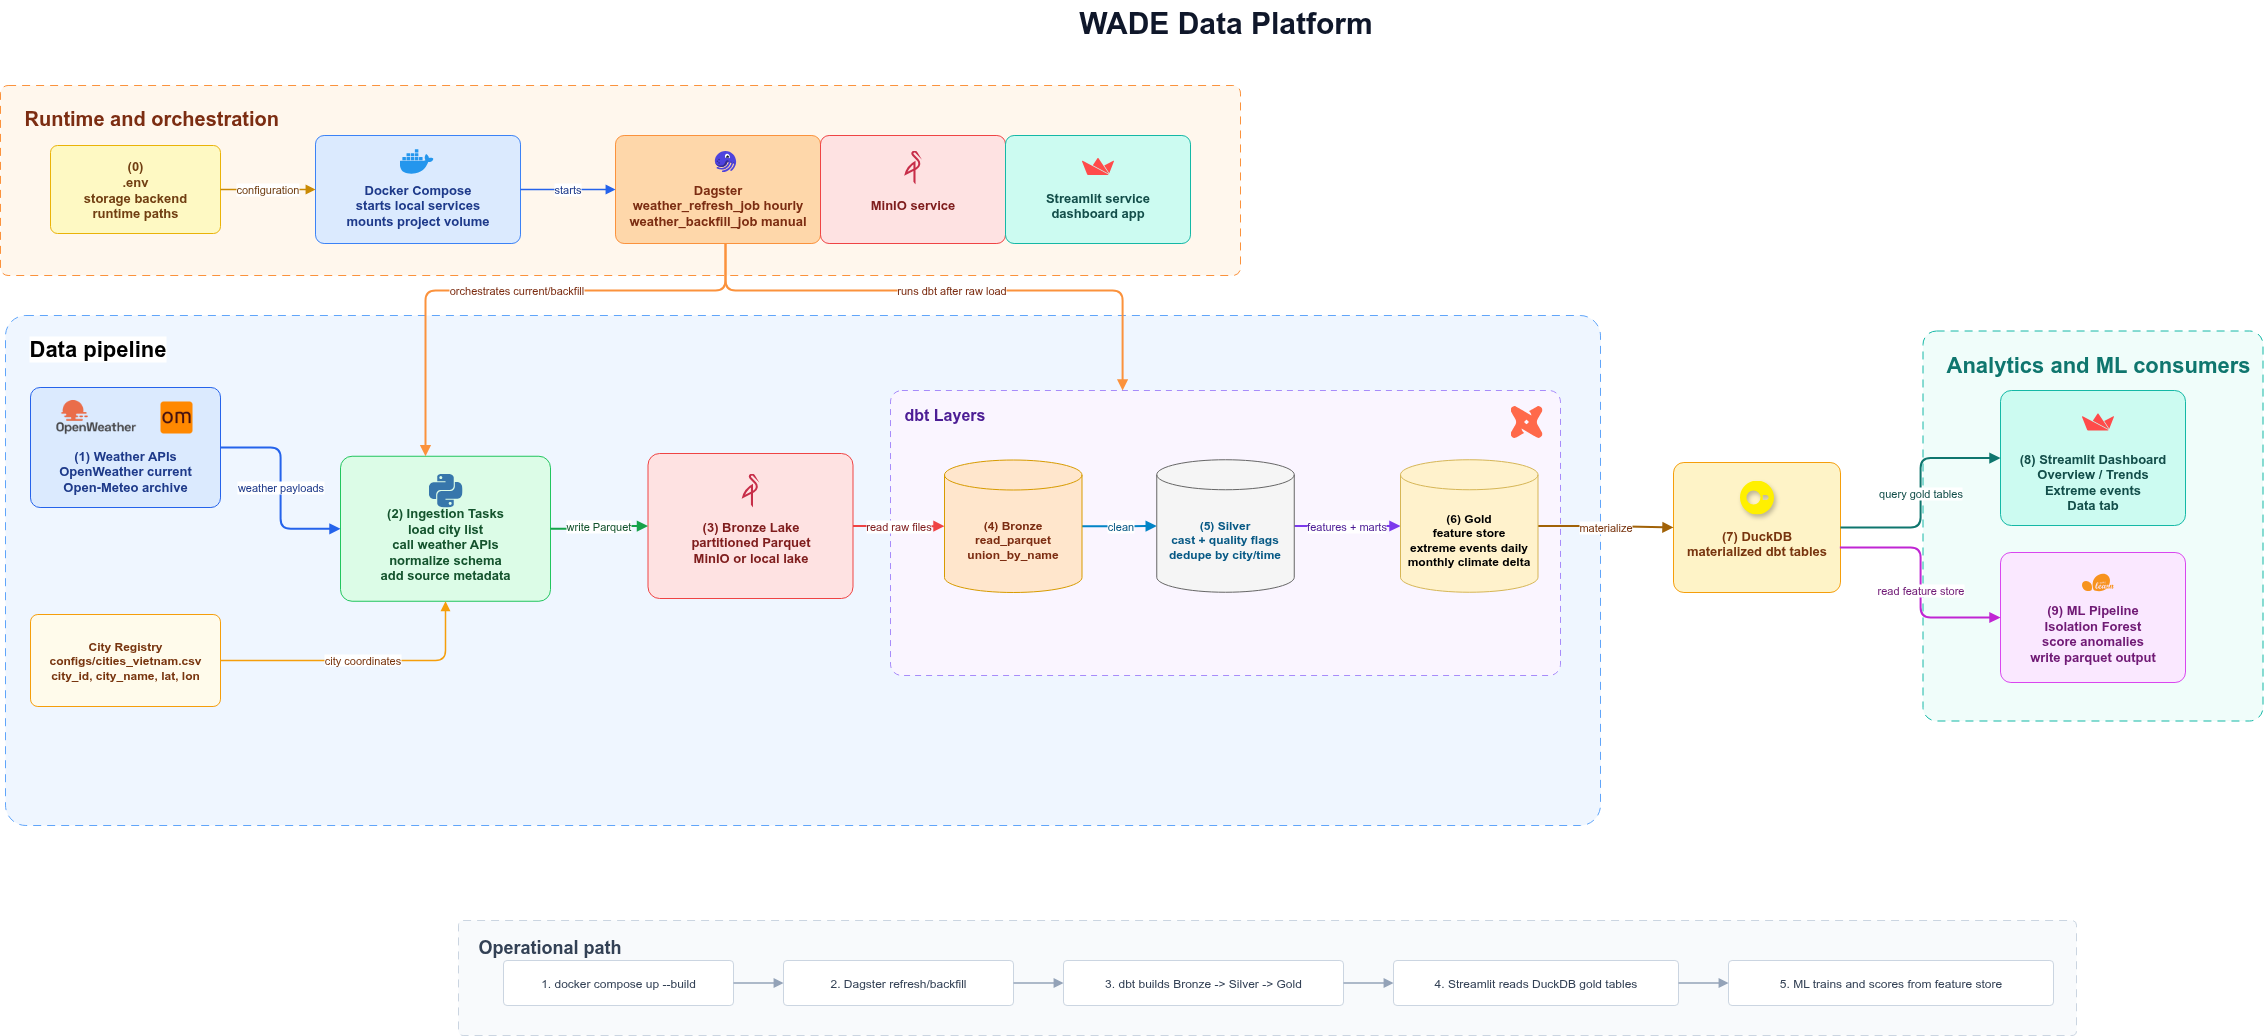
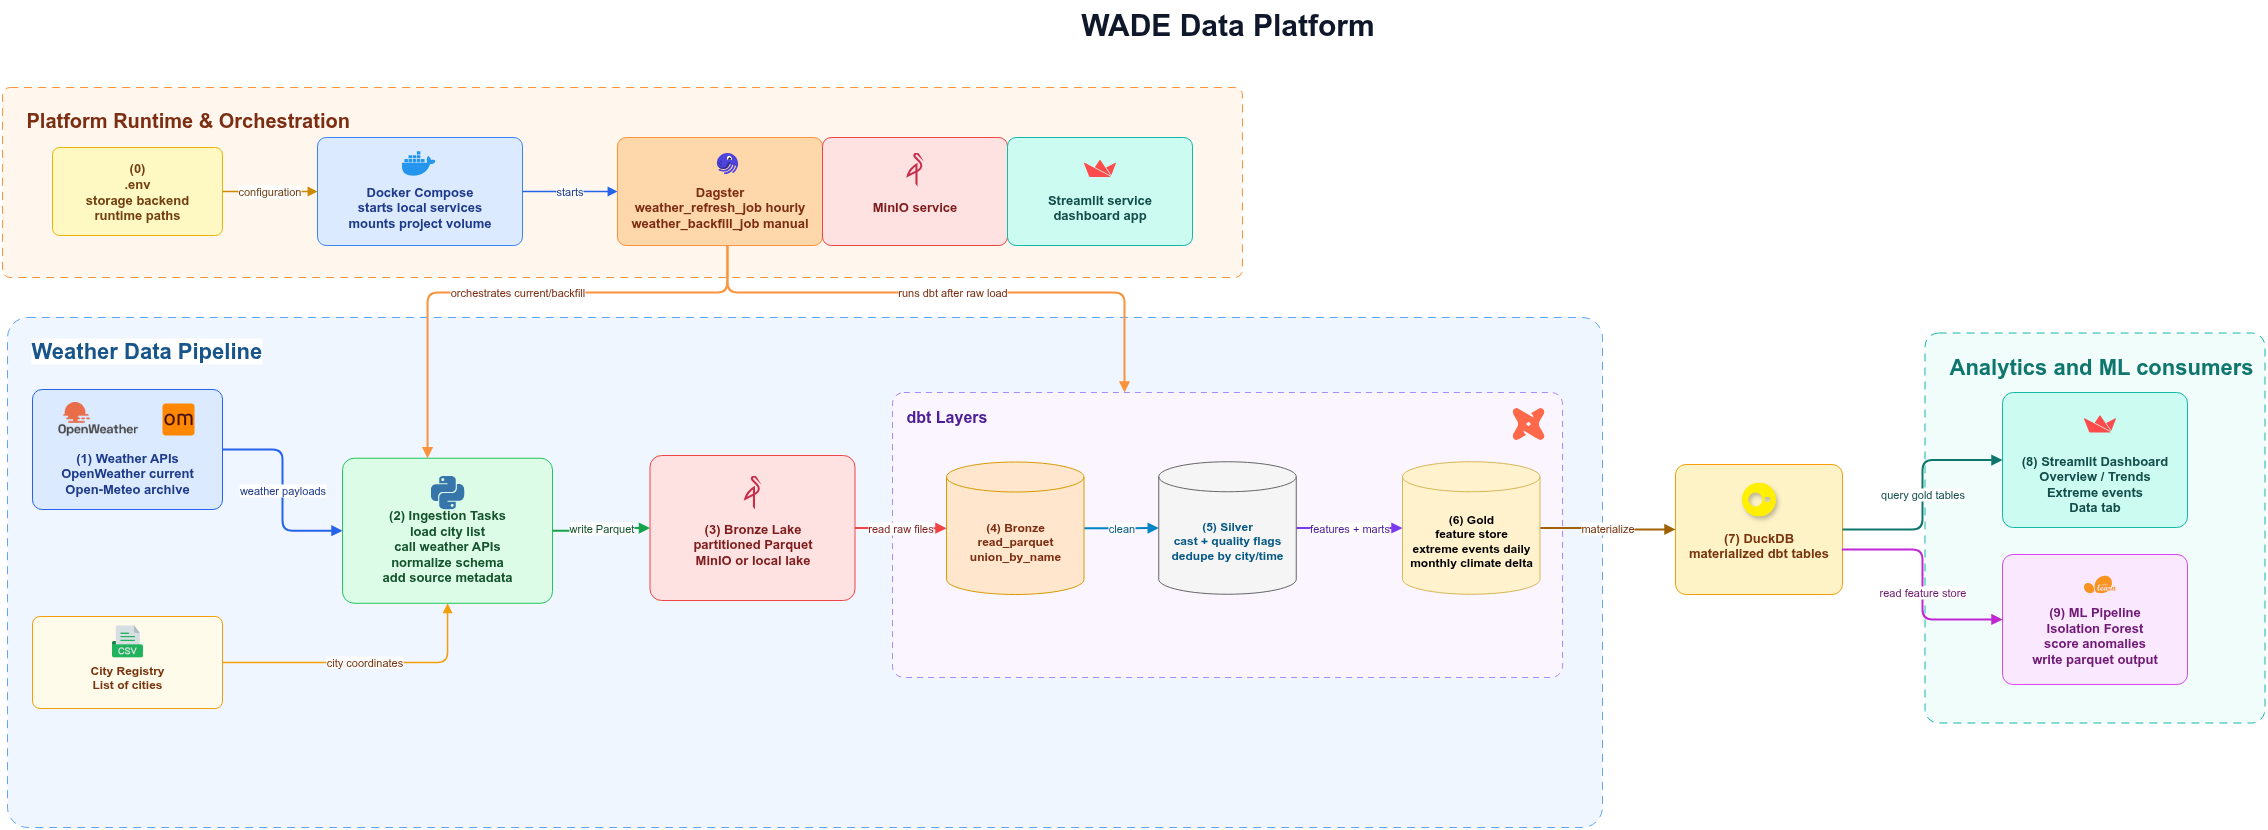
Update wade_architecture.png to reflect recent design changes

diff --git a/README.md b/README.md
@@ -16,8 +16,6 @@ External APIs -> MinIO bucket -> DuckDB/dbt -> Dashboard / ML
 
 WADE is designed as one continuous weather data platform. Docker Compose starts the local services, Dagster orchestrates ingestion and dbt runs, MinIO stores bronze Parquet data, DuckDB holds the transformed analytics tables, and Streamlit/ML consume the curated gold layer.
 
-Architecture diagram: [docs/wade_architecture.drawio](docs/wade_architecture.drawio)
-
 ![WADE architecture flow](docs/wade_architecture.png)
 
 ```text
